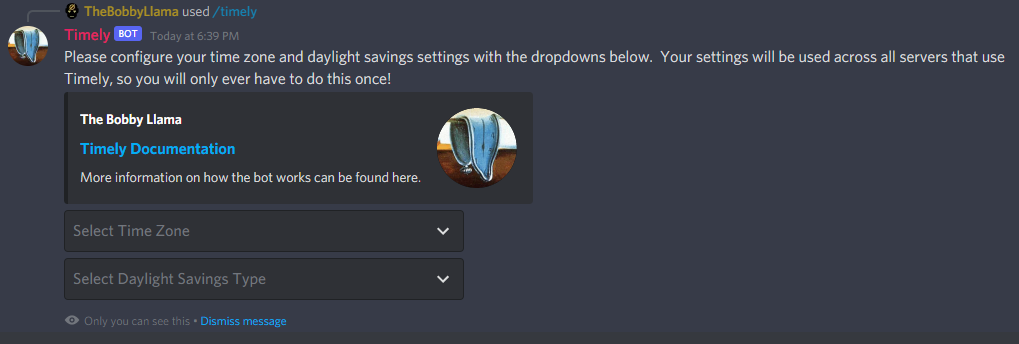
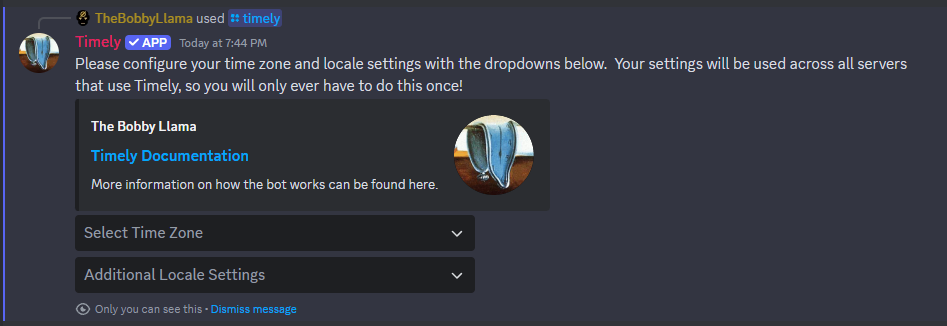
Updated configuration reference image to include new locale setting labels.

Changed region(s): [[0.0, 0.0, 1.0, 0.6135], [0.0612, 0.6442, 0.5206, 0.9816]]

diff --git a/docs/index.html b/docs/index.html
@@ -29,7 +29,7 @@
 					The bot may be used without any other configuration if you supply local time information when writing a time - <i>e.g.</i> <code>3:30 PM EST</code>, <code>8:30 pdt</code>, <code>1300 CET</code>, <code>7:30 UTC</code>, <code>1AM (London)</code>, <code>12:30 Vancouver</code> and so on.  You can tag as many time entries as you like in a post and Timely will convert them all.
 				</li>
 				<li>
-					Note that 24-hour time must be written in <b>####</b> format - <i>e.g.</i> <code>2200 est</code>
+					Note that 24-hour time must be written in <b>####</b> format - <i>e.g.</i> <code>0800 est</code>
 				</li>
 			</ul>
 			<aside id="showHideHolder" class="hideMe">
